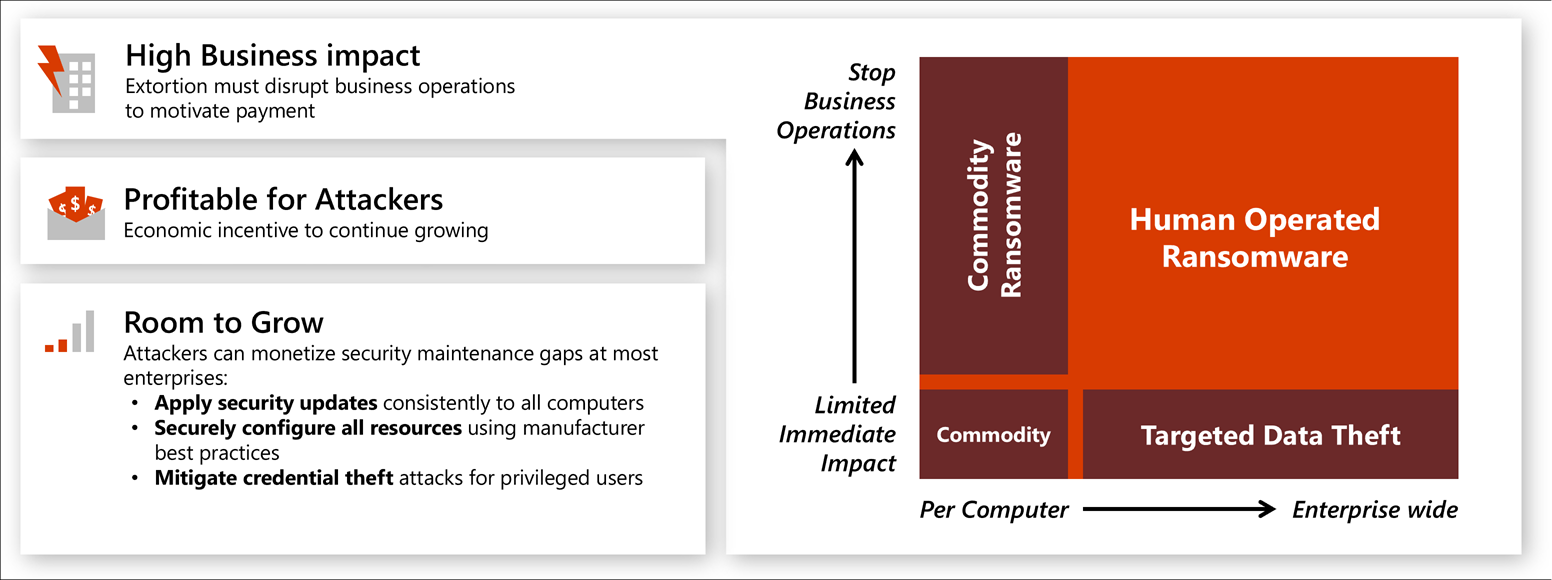
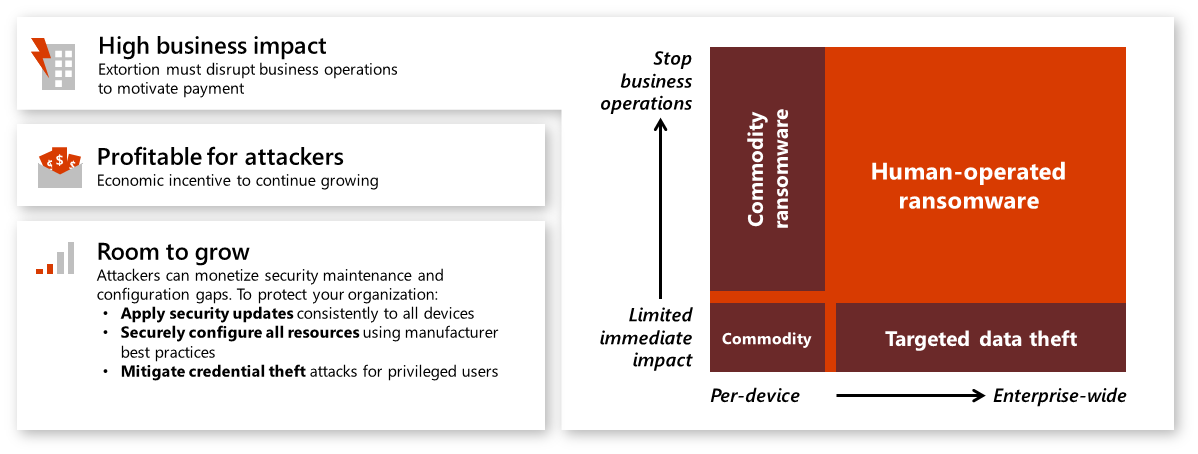
IRRG and HumOR updates

diff --git a/compass/human-operated-ransomware.md b/compass/human-operated-ransomware.md
@@ -7,24 +7,69 @@ audience: Admin
 ms.prod: m365-security
 ms.topic: article
 localization_priority: Normal
-description: "Learn about how to protect your organization from human-operated ransomware"
+description: "Learn about how to protect your organization from human-operated ransomware."
 ---
 
 # Human-operated ransomware
 
 Human-operated ransomware is a large and growing attack trend that represents a threat to organizations in every industry.
 
-Human-operated ransomware is different than commodity ransomware. These “hands-on-keyboard” attacks target the organization rather than a single device and leverage human attackers’ knowledge of common system and security misconfigurations to infiltrate the organization. The human attackers can navigate the enterprise network and adapt to the environment and its weak points as they go. 
+Human-operated ransomware is different than commodity ransomware. These “hands-on-keyboard” attacks target an organization rather than a single device and leverage human attackers’ knowledge of common system and security misconfigurations to infiltrate the organization, navigate the enterprise network, and adapt to the environment and its weaknesses s as they go. 
 
 Hallmarks of these human-operated ransomware attacks typically include credential theft and lateral movement and can result in deployment of a ransomware payload to high business impact resources the attackers choose.
 
 These attacks can be catastrophic to business operations and are difficult to clean up, requiring complete adversary eviction to protect against future attacks. Unlike commodity ransomware that only requires malware remediation, human-operated ransomware will continue to threaten your business operations after the initial encounter. 
 
-To better protect your organization, Microsoft recommends that you use the information in the **[Human-Operated Ransomware Mitigation Project Plan](https://download.microsoft.com/download/7/5/1/751682ca-5aae-405b-afa0-e4832138e436/RansomwareRecommendations.pptx)** PowerPoint presentation, which includes [securing privileged access](https://aka.ms/spa).
-
-This figure shows how this extortion-based attack that uses privileged access is growing in impact and likelihood.
+This figure shows how this extortion-based attack that uses maintenance and security configuration gaps and privileged access is growing in impact and likelihood.
 
 ![The impact and likelihood that human-operated ransomeware attacks will continue](media/ransomware-extortion-based-attack.png)
+
+To provide the best protection against any kind of ransomware attack, Microsoft recommends that you:
+
+1. Use an effective email filtering solution
+
+   According to the [Microsoft Security Intelligence Report Volume 24 of 2018](https://clouddamcdnprodep.azureedge.net/gdc/gdc09FrGq/original), spam and phishing emails are still the most common delivery method for ransomware infections. To effectively stop ransomware at its entry point, you must adopt an email security service that ensures all email content and headers entering and leaving the organization are scanned for spam, viruses, and other advanced malware threats. 
+
+   By adopting an enterprise-grade email protection solution, most cybersecurity threats against an organization will be blocked at ingress and egress.
+
+   **HOW:** Use [Exchange Online Protection (EOP)](/microsoft-365/security/office-365-security/exchange-online-protection-overview), the Microsoft 365 and Office 365 cloud-based filtering service that protects your organization' Exchange Online mailboxes against spam, malware, and other email threats. 
+
+2. Deploy regular hardware and software systems patching and effective vulnerability management
+
+   A vital defense against cybersecurity attacks is the application of security updates and patches as soon as the software publishers release them. 
+
+   A prominent example of this failure was the WannaCry ransomware events in 2017, one of the largest global cybersecurity attacks in the history of the internet, which used a leaked vulnerability in Windows networking Server Message Block (SMB) protocol, for which Microsoft had released a patch nearly two months before the first publicized incident. 
+
+   Regular patching and an effective vulnerability management program are important measures to defend against ransomware and other forms of malware.
+
+   **HOW:** Use [update channels](/microsoft-365/enterprise/deploy-update-channels-examples) for recommendations on updates for Windows 10 and Microsoft 365 Apps for Enterprise (Windows 10).
+
+3. Use up to date antivirus and an endpoint detection and response (EDR) solutions
+
+   While owning an antivirus solution alone does not ensure absolute protection against viruses and other advanced computer threats, ensure that your antivirus solutions are kept up to date with your software publishers. 
+
+   Attackers invest heavily in the creation of new viruses and exploits, while vendors are left playing catch-up by releasing daily updates to their antivirus database engines. 
+
+   EDR solutions collect and store large volumes of data from endpoints and provide real-time host-based, file-level monitoring and visibility to systems. The data sets and alerts generated by an EDR solution can help stop advanced threats and are often leveraged for responding to security incidents.
+
+4. Separate administrative and privileged credentials from standard credentials
+
+   Separate your system administrative accounts from your standard user accounts to ensure those administrative accounts are not useable across multiple systems. Separating these privileged accounts not only enforces proper access control but also ensures that a compromise of a single standard user account doesn’t lead to the compromise of your entire IT infrastructure. 
+
+   **HOW:** To effectively reduce your credential attack surface, use Microsoft support for [Azure Multi-Factor Authentication (MFA)](/azure/active-directory/authentication/concept-mfa-howitworks) to require stronger authentication for privileged accounts, [Azure Privileged Identity Management (PIM)](/azure/active-directory/privileged-identity-management/) for just-in-time use of privileged accounts, and [Privileged Access Management (PAM)](/microsoft-365/compliance/privileged-access-management-solution-overview) for just-in-time access to Microsoft 365 tasks that need elevated permissions.
+
+5. Implement effective application allowlists
+
+   You need to restrict the applications that can run within an IT infrastructure. Application allowlists ensure only applications that have been tested and approved by an organization can run on the systems within the infrastructure. While this can be tedious and presents several IT administrative challenges, this strategy has been proven effective.
+
+   **HOW:** For Microsoft 365 apps, use [Azure AD Conditional Access](/azure/active-directory/conditional-access/app-based-conditional-access) to require approved apps.
+
+6. Regularly back up critical systems and files
+
+   The ability to recover to a known good state is the most critical strategy of any information security incident plan, especially ransomware. Therefore, to ensure the success of this process, an organization must validate that all its critical systems, applications, and files are regularly backed up and that those backups are regularly tested to ensure they are recoverable. Ransomware is known to encrypt or destroy any file it comes across, and it can often make them unrecoverable; consequently, it’s of utmost importance that all impacted files can be easily recovered from a good backup stored at a secondary location not impacted by the ransomware attack.
+
+For additional information and details, see the **[Human-Operated Ransomware Mitigation Project Plan](https://download.microsoft.com/download/7/5/1/751682ca-5aae-405b-afa0-e4832138e436/RansomwareRecommendations.pptx)** PowerPoint presentation, which includes [securing privileged access](https://aka.ms/spa).
+
 
 ## Additional resources
 

diff --git a/compass/incident-response-overview.md b/compass/incident-response-overview.md
@@ -36,14 +36,18 @@ In the safety of a trial or paid sandbox subscription, you can:
 - Identify, document, and share relevant data sources to model and detect adversary actions.
 - Validate and tune detection capabilities.
 
-The learnings from Simuland lab environment scenarios can then be implemented in production.
+The learnings from Simuland lab environment scenarios can then be implemented in your production envronment and security processes.
 
 After reading an overview of [Simuland](https://www.microsoft.com/security/blog/2021/05/20/simuland-understand-adversary-tradecraft-and-improve-detection-strategies/), see the [Simuland GitHub repository](https://github.com/Azure/SimuLand).
  
 ## Next steps
 
-- See how to [investigate incidents for Azure Sentinel](/azure/sentinel/tutorial-investigate-cases).
-- See how to [investigate incidents for Microsoft 365 Defender](/microsoft-365/security/defender/incidents-overview).
+If you are just starting out in incident response, see the [Incident Response Reference Guide](https://download.microsoft.com/download/4/f/f/4ff621f9-6f44-437a-80c7-2624e3d2ce80/IR-Reference-Guide.pdf) for an overview of preparing your organization and what to do during an incident.
+
+If you are experienced with incident response: 
+
+- See how to [investigate incidents in Azure Sentinel](/azure/sentinel/tutorial-investigate-cases).
+- See how to [investigate incidents in Microsoft 365 Defender](/microsoft-365/security/defender/incidents-overview).
 - Use the incident response playbooks at [https://aka.ms/IRplaybooks](https://aka.ms/IRplaybooks).
   - [Phishing](incident-response-playbook-phishing.md)
   - [Password spray](incident-response-playbook-password-spray.md)
